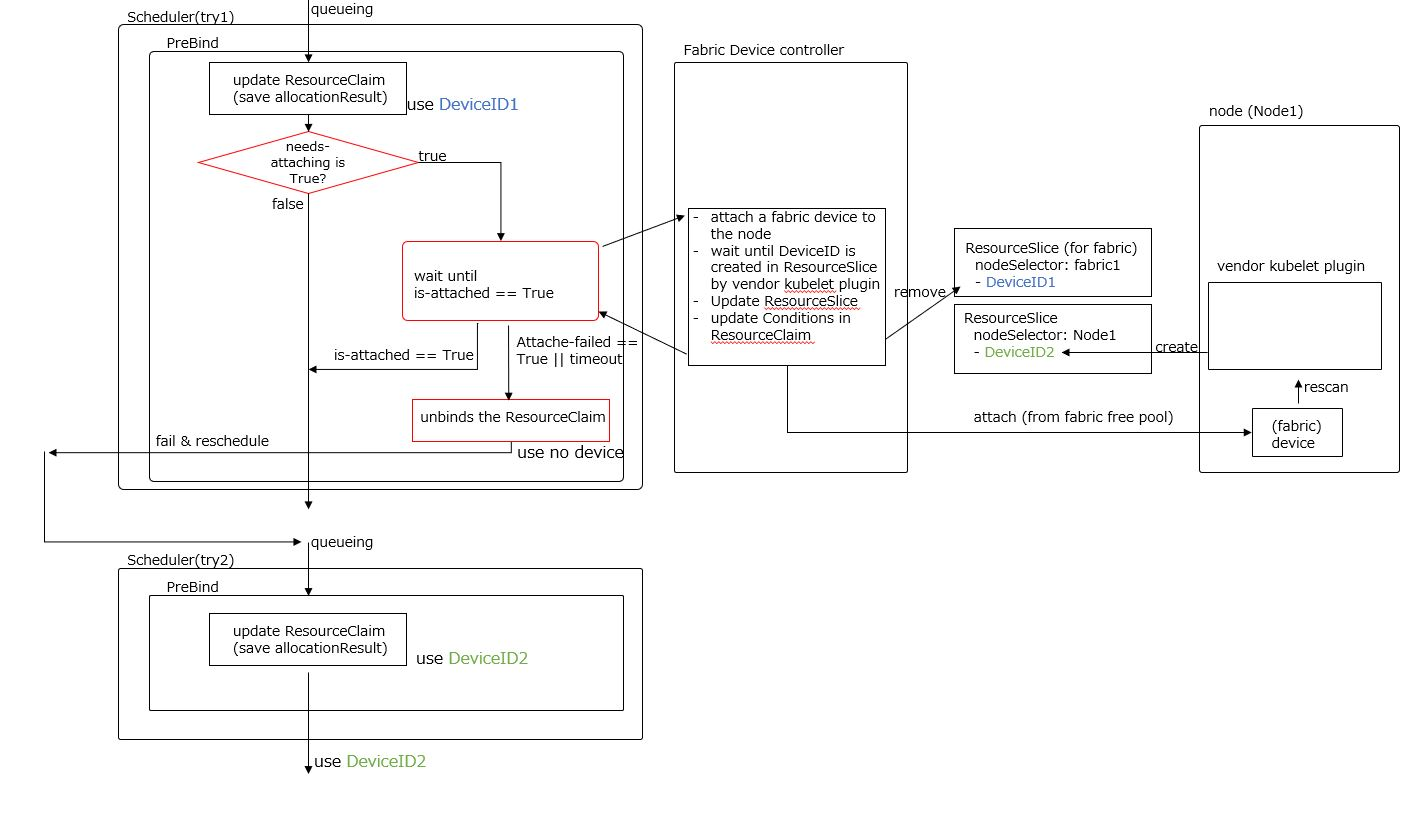
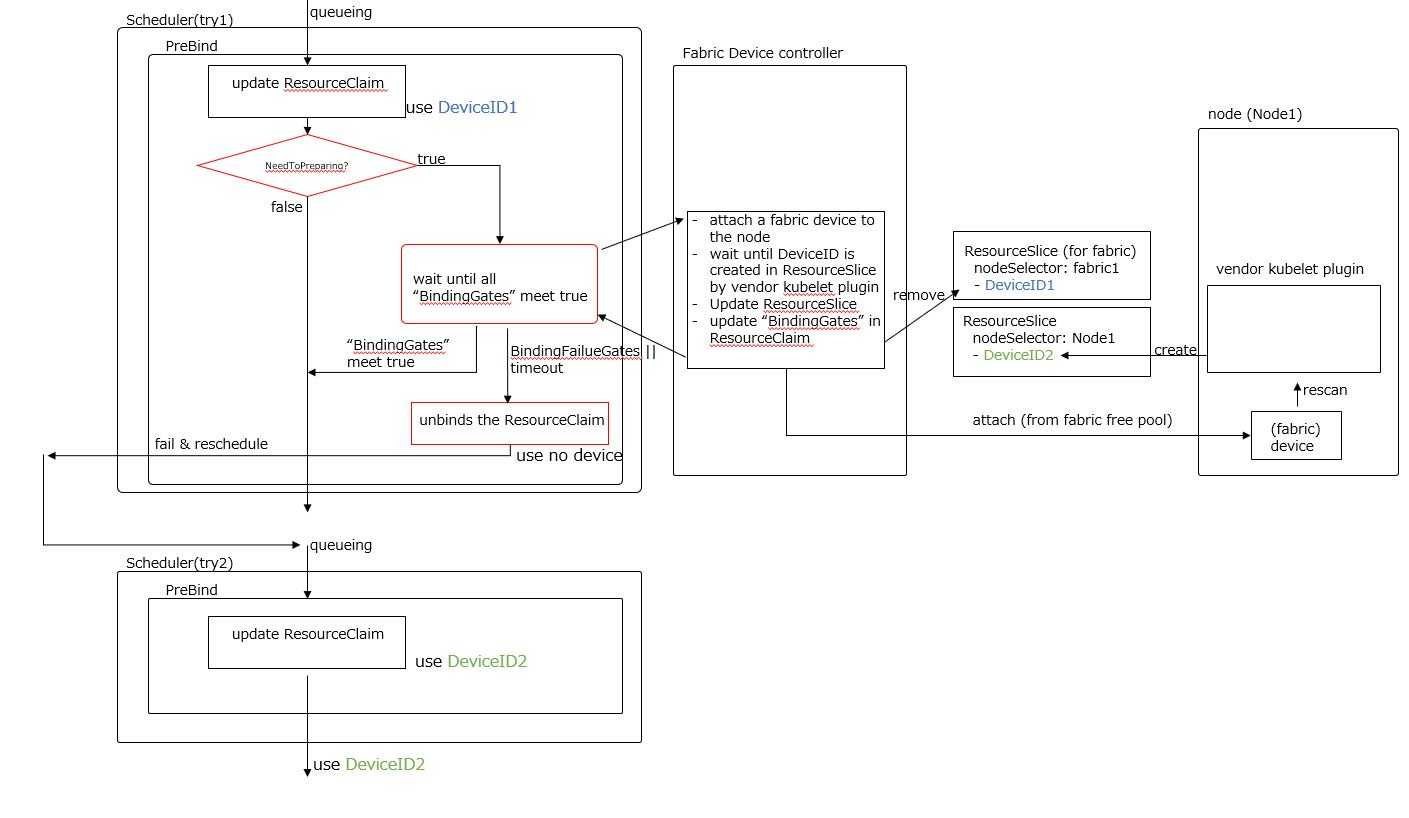
Update: Use the BindingGates approach.

diff --git a/keps/sig-scheduling/5007-device-attach-before-pod-scheduled/README.md b/keps/sig-scheduling/5007-device-attach-before-pod-scheduled/README.md
@@ -90,9 +90,9 @@ tags, and then generate with `hack/update-toc.sh`.
   - [Risks and Mitigations](#risks-and-mitigations)
 - [Design Details](#design-details)
   - [DRA Scheduler Plugin Design Overview](#dra-scheduler-plugin-design-overview)
-    - [Device Attribute Additions](#device-attribute-additions)
-    - [<code>AllocatedDeviceStatus</code> Additions](#allocateddevicestatus-additions)
-    - [Scheduler DRA plugin Additions](#scheduler-dra-plugin-additions)
+    - [BasicDevice Enhancements](#basicdevice-enhancements)
+    - [AllocatedDeviceStatus Enhancements](#allocateddevicestatus-enhancements)
+    - [Scheduler DRA Plugin Modifications](#scheduler-dra-plugin-modifications)
     - [PreBind Phase Timeout](#prebind-phase-timeout)
     - [Handling ResourceSlices Upon Failure of Attachment](#handling-resourceslices-upon-failure-of-attachment)
   - [Composable Controller Design Overview](#composable-controller-design-overview)
@@ -315,7 +315,7 @@ This issue needs to be resolved before the beta is released.
 
 **The in-flight events cache may grow too large when waiting in PreBind.**
 
-To address the PreBind concern, the solution is to modify the scheduling framework to flush the in-flight events cache before PreBind. 
+To address the PreBind concern, the solution is to modify the scheduling framework to flush the in-flight events cache before PreBind.
 This prevents issues in the scheduling queue caused by keeping pods at PreBind for an extended period.
 This issue will be addressed separately as outlined in kubernetes/kubernetes#129967.
 This issue needs to be resolved before the beta is released.
@@ -330,11 +330,10 @@ The composable controller design is also discussed, emphasizing efficient utiliz
 
 ![proposal](proposal.jpg)
 
-#### Device Attribute Additions
+#### BasicDevice Enhancements
 
-To indicate whether a device is a fabric device, an attribute is added to the `Basic` within `Device`.
-This attribute will be used by the controller that exposes the `ResourceSlice` to notify whether the device is a fabric device.
-To avoid impacting existing DRA functionality, the default value of this attribute is set to `false`.
+To indicate whether a device is a fabric device, fields are added to the `Basic` within `Device`.
+These fields will be used by the controller that exposes the `ResourceSlice` to notify whether the device is a fabric device.
 
 ```go
 // Device represents one individual hardware instance that can be selected based
@@ -362,87 +361,87 @@ type BasicDevice struct {
     //
     // +optional
     Attributes map[QualifiedName]DeviceAttribute
-    ...
 
-}
+    // BindingGates defines the gates for binding.
+    //
+    // +optional
+    BindingGates []string
 
-...
-// DeviceAttribute must have exactly one field set.
-type DeviceAttribute struct {
-	// The Go field names below have a Value suffix to avoid a conflict between the
-	// field "String" and the corresponding method. That method is required.
-	// The Kubernetes API is defined without that suffix to keep it more natural.
+    // BindingFailureGates defines the gates for binding failure.
+    //
+    // +optional
+    BindingFailureGates []string
 
-	// IntValue is a number.
-	//
-	// +optional
-	// +oneOf=ValueType
-	IntValue *int64
-
-	// BoolValue is a true/false value.
-	//
-	// +optional
-	// +oneOf=ValueType
-	BoolValue *bool
-
-	// StringValue is a string. Must not be longer than 64 characters.
-	//
-	// +optional
-	// +oneOf=ValueType
-	StringValue *string
-
-	// VersionValue is a semantic version according to semver.org spec 2.0.0.
-	// Must not be longer than 64 characters.
-	//
-	// +optional
-	// +oneOf=ValueType
-	VersionValue *string
+    // UsageRestrictedToNode indicates if the usage of an allocation involving this device
+    // has to be limited to exactly the node that was chosen when allocating the claim.
+    //
+    // +optional
+    UsageRestrictedToNode bool
 }
 ```
 
-To indicate a fabric device, the following attribute will be added:
+#### AllocatedDeviceStatus Enhancements
 
-```yaml
-attributes:
-  kubernetes.io/needs-attaching:
-    boolValue: "true"
-```
+The `BindingGates` and `BindingFailureGates` fields within `AllocatedDeviceStatus` are used to indicate the status of the device attachment.
+These fields will contain a list of conditions, each representing a specific state or event related to the device.
 
-#### `AllocatedDeviceStatus` Additions
-
-The `Conditions` field within `AllocatedDeviceStatus` is used to indicate the status of the device attachment.
-This field will contain a list of conditions, each representing a specific state or event related to the device.
-
-For this feature, the NodeName and following `ConditionType` constants are added:
+For this feature, following fields are added:
 
 ```go
 // AllocatedDeviceStatus contains the status of an allocated device, if the
 // driver chooses to report it. This may include driver-specific information.
 type AllocatedDeviceStatus struct {
-...
-    // NodeName contains the name of the node where the device needs to be attached.
+    ...
+    // BindingGates defines the gates for binding.
     //
     // +optional
-    NodeName string 
-}
+    BindingGates map[string]bool
 
-const(
-  DRADeviceNeedAttachType = "kubernetes.io/needs-attaching"
-  DRADeviceIsAttachType = "kubernetes.io/is-attached"
-  DRADeviceAttachFailType = "kubernetes.io/attach-failed"
+    // BindingFailureGates defines the gates for binding failure.
+    //
+    // +optional
+    BindingFailureGates map[string]bool
+}
+```
+
+#### Scheduler DRA Plugin Modifications
+
+When `UsageRestrictedToNode: true` is set, the scheduler DRA plugin will perform the following steps:
+
+1. **Set NodeSelector**: Before the `PreBind` phase, add the `NodeName` to the `ResourceClaim`'s `NodeSelector`.
+
+If Gates are present, the scheduler DRA plugin will perform the following steps during the `PreBind` phase:
+
+2. **Copy Gates**: Copy `BindingGates` and `BindingFailureGates` from `ResourceSlice.Device.Basic` to `AllocatedDeviceStatus`.
+3. **Wait for Conditions**: Wait for the following conditions:
+   - If `NeedToPreparing` is `True`, wait until `IsPrepared` is `True` before proceeding to Bind.
+   - If `PreparingFailed` is `True`, clear the allocation in the `ResourceClaim` and reschedule the Pod.
+   - If the preparation takes longer than the `PreparingTimeout` period, clear the allocation in the `ResourceClaim` and reschedule the Pod.
+
+To support these steps, the following keys are defined:
+
+```go
+const (
+    // NeedToPreparing indicates that this device needs some preparation.
+    // If this flag is True, the scheduler waits in PreBind.
+    NeedToPreparing = "kubernetes.io/need-to-preparing"
+
+    // IsPrepared indicates the device ready state.
+    // If NeedToPreparing is True and IsPrepared is True, the scheduler proceeds to Bind.
+    IsPrepared = "kubernetes.io/is-prepared"
+
+    // PreparingFailed indicates the device preparation failed state.
+    // If PreparingFailed is True, the scheduler will clear the allocation in the ResourceClaim and reschedule the Pod.
+    PreparingFailed = "kubernetes.io/preparing-failed"
+
+    // PreparingTimeout indicates the prepare timeout period.
+    // If the timeout period is exceeded, the scheduler clears the allocation in the ResourceClaim and reschedules the Pod.
+    PreparingTimeout = "kubernetes.io/preparing-timeout"
 )
 ```
 
-#### Scheduler DRA plugin Additions
-When `kubernetes.io/needs-attaching: true` is set, the scheduler DRA plugin is expected to do the following at `PreBind`:
-
-1. Set `AllocatedDeviceStatus.NodeName`.
-2. Add an `AllocatedDeviceStatus` with a condition of `Type: kubernetes.io/needs-attaching` and `Status: True`.
-3. Wait for a condition with `Type: kubernetes.io/is-attached` and `Status: True` in `PreBind` before proceeding.
-4. Reject the pod when observing a condition with `Type: kubernetes.io/attach-failed` and `Status: True`.
-
 Note: There is a concern that the in-flight events cache may grow too large when waiting in PreBind.
-To address the PreBind concern, the solution is to modify the scheduling framework to flush the in-flight events cache before PreBind. 
+To address this, the scheduling framework will be modified to flush the in-flight events cache before PreBind.
 This prevents issues in the scheduling queue caused by keeping pods at PreBind for an extended period.
 This issue will be addressed separately as outlined in kubernetes/kubernetes#129967.
 
@@ -451,7 +450,7 @@ This issue will be addressed separately as outlined in kubernetes/kubernetes#129
 If the device attachment is successful, we expect it to take no longer than 5 minutes.
 However, to account for potential update lags, we would like to set a fixed timeout for the scheduler to 10 minutes.
 
-Even if the conditions `Type: kubernetes.io/is-attached` or `Type: kubernetes.io/attach-failed` are not updated, setting a timeout will prevent the scheduler from waiting indefinitely in the PreBind phase.
+Even if the conditions indicating that the device is attached or that the attachment failed are not updated, setting a timeout will prevent the scheduler from waiting indefinitely in the PreBind phase.
 
 #### Handling ResourceSlices Upon Failure of Attachment
 
@@ -486,15 +485,11 @@ driver: gpu.nvidia.com
 nodeSelector: fabric1
 devices:
   - name: device1
-    attributes:
-      ...
-      kubernetes.io/needs-attaching:
-        boolValue: "true"
+    UsageRestrictedToNode: true
+    ...
   - name: device2
-    attributes:
-      ...
-      kubernetes.io/needs-attaching:
-        boolValue: "true"
+    UsageRestrictedToNode: true
+    ...
 ```
 
 The vendor's DRA kubelet plugin will also publish the devices managed by the vendor as `ResourceSlices`.
@@ -544,11 +539,12 @@ devices:
 ```
 
 Composable DRA controller exposes free devices list on the fabric that is not yet connected to a node as a ResourceSlice.
-Controller refreshes the ResourceSlice periodically (every 10 seconds). 
+Controller refreshes the ResourceSlice periodically (every 10 seconds).
 This means that it reflects the latest list of devices on the fabric.
 It does not "detect attach or detach to nodes and update them immediately in event handlers, etc."
 This is because it is difficult for a Composable DRA running on K8s to cover all cases where a ResourceSlice needs to be updated, such as when a new device is physically added to the fabric.
-We also expect vendor DRAs to periodically update the list of devices connected to the node as a ResourceSlice. This requires the rescan function to be run periodically.
+We also expect vendor DRAs to periodically update the list of devices connected to the node as a ResourceSlice
+This requires the rescan function to be run periodically.
 
 Devices in composable ResourceSlice has a unique device name.
 However, that the device name is not an identifying name (for example, UUID).
@@ -571,7 +567,7 @@ And then, device autoscaler tries to attach new devices.
 And it also try to detach devices if they have not been used for a period of time.
 This is similar to the concept of CA.
 
-However, if CA and device autoscaler is running independently, CA may add a node with a device at the same time as the device autoscaler attaches the device. 
+However, if CA and device autoscaler is running independently, CA may add a node with a device at the same time as the device autoscaler attaches the device.
 This is a wasted resource addition.
 Therefore, there is the following idea that putting device-scale functionality in CA.
 
@@ -581,7 +577,7 @@ If so, the Processor instructs the attachment of the resource, using the composa
 If attaching the fabric ResourceSlice does not make scheduling possible, the Processor determines whether to add a new node as usual.
 
 After the device is attached, the vendor DRA updates the node-local ResourceSlices.
-The vendor DRA needs a rescan function to update the Pool/ResourceSlice. 
+The vendor DRA needs a rescan function to update the Pool/ResourceSlice.
 The scheduler can then assign the node-local ResourceSlice devices to the unschedulable Pod, operating the same as the usual DRA from this point.
 
 ### Test Plan
